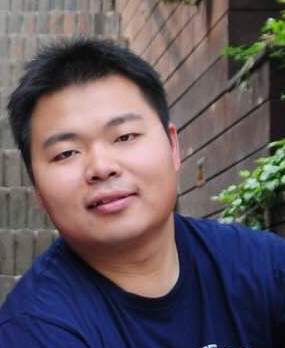
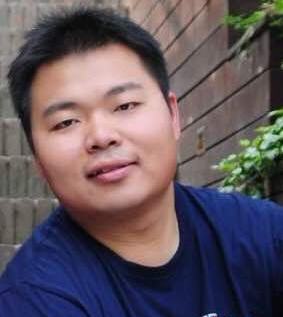
checkpoint

diff --git a/index.html b/index.html
@@ -18,12 +18,12 @@
 <div class="container">
       <div class="content">
         <div class="contentinner">
-  <!--div style="position:relative;height:auto;">
+  <div style="position:relative;height:auto;">
   <div id="self-photo">
     <p style="text-align: center;">
       <img src="img/jian.png" alt="Jian Xiang"></p>
   </div>
-  <div id="index-header" style="margin-left: 13em;">
+  <div id="index-header" style="margin-left: 15em;">
       <h1>Jian Xiang (jee·en shaang)</h1>
       <div class="contactinfo">
         <p>Research Associate,
@@ -65,7 +65,7 @@
 
 <br />
 <br />
-</div-->
+</div>
 
 
 
@@ -73,20 +73,19 @@
   <hr style="height: 2px; width: 100%;">
   <table style="text-align: left; margin-left: auto; margin-right: auto;" border="0" cellpadding="5px" cellspacing="5px">
     <tbody><tr align="center">
-        <td width="10%">
-		  <a href="./index.html">Home</a>
+    <td width="20%">
+         <a href="./index.html">Home</a>
 		</td>
-    	        <td width="10%">
+    <td width="20%">
 		  <a href="./publications.html">Publications</a>
 		</td>
-
-	            <td width="10%">
+    <td width="20%">
 		  <a href="./teaching.html">Teaching</a>
 		</td>
-    	        <td width="10%">
+    <td width="20%">
 		  <a href="./resources.html">Resources</a>
 		</td>
-    	        <td width="10%">
+    <td width="20%">
 		  <a href="./contact.html">Contact</a>
 		</td>
   </tr></tbody></table>
@@ -100,10 +99,7 @@
 
 <p>
 The primary goal of my research is to advance the state of the art of formal methods for correctness and security of computer systems, especially cyber-physical systems (CPSs), and to develop tools and techniques to help construct systems that are correct and secure.
-Formal methods are crucial for security goals, because they can show that no attack strategy will cause a system to misbehave. For the past several years, my research approach is to investigate sound, powerful, and pragmatic formal reasoning techniques for safety and security properties, and develop efficient enforcement mechanisms of these properties in constructing practical systems. <!-- See my <a href="#researchproject">projects</a> for more details. -->
-
-<!--Many complex systems, especially CPSs, are safety and security critical. Systematic, correct, and secure system design and implementation are urgently needed, and I believe that rigorous formal methods are essential for substantial improvements. They enable reasoning from logical or mathematical specifications of the behaviors
-of software systems and offer rigorous proofs that all system behaviors meet some desirable properties. -->
+Formal methods are crucial for security goals, because they can show that no attack strategy will cause a system to misbehave. For the past several years, my research approach is to investigate sound, powerful, and pragmatic formal reasoning techniques for safety and security properties, and develop efficient enforcement mechanisms of these properties in constructing practical systems.
 </p>
 
 
@@ -135,25 +131,6 @@ Co-Inflow: Coarse-grained Information Flow Control for Java-like Languages</span
     </li>
   </ul>
 
-<!--li><span class="pubtitle">
-J. Xiang, N. Fulton, and S. Chong. &ldquo; Extending Dynamic Logics with First-Class Relational Reasoning&rdquo;. (under review).
-</span>
-</li-->
-
-
-
-
-  <!-- h2>
-<span style="font-family:tahoma,geneva,sans-serif;">Projects</span></h2>
-
-<ul>
-	<li><span style="font-size:24px;"><span style="font-family:tahoma,geneva,sans-serif;"><a href="https://github.com/HarvardPL/Co-InflowPrototype">Co-Inflow</a> is a coarse-grained dynamic information-flow control mechanism for Java language. By careful design choices and defaults, a programmer typically needs to add very few annotations to a Java program to convert it to a Co-Inflow program with relatively good precision. Additional annotations can improve precision. We achieve this tradeoff between precision and annotation burden by instantiating and specializing recent advances in coarse-grained IFC for a Java-like setting, and by using opaque labeled values: a restriction of labeled values that the Co-Inflow runtime automatically and securely creates and uses.</span></span></li>
-	<br />
-	<li><span style="font-size:24px;"><span style="font-family:tahoma,geneva,sans-serif;"><a>SecPhy</a> is a framework for modeling and analyzing sensor attacks on cyber-physical systems, using the formalism of hybrid programs. It formalizes and analyzes two relational properties of a system&rsquo;s robustness: (1) whether a system&rsquo;s safety property can be influenced by sensor attacks, and (2) whether a system&rsquo;s high-integrity state can be affected by sensor attacks. These relational properties is characterized by defining an equivalence relation between a system under attack and the original unattacked system. That is, the system satisfies the robustness properties if executions of the attacked system are appropriately related to executions of the unattacked system.</span></span></li>
-	<br />
-	<li><span style="font-size:24px;"><span style="font-family:tahoma,geneva,sans-serif;"><a href="https://github.com/jx5c/Real-World-Type-System/tree/master/RWTChecker">Interpreted formalism</a> is a software analog of the notion of an informal interpretation from classical logic. It targets at improving software dependability by introducing real-world semantics to software systems, and conduct comprehensive type checking based on these semantics.</span></span></li>
-</ul-->
-
 
 <h2 id="researchareas">Research Areas</h2>
 
@@ -173,35 +150,6 @@ J. Xiang, N. Fulton, and S. Chong. &ldquo; Extending Dynamic Logics with First-C
 </p>
 <p> Some useful resources for students can be found <a href="./resources.html">here</a>.
 </p>
-
-
-
-<!--h2 id="researchproject">Research Projects</h2>
-    <ul>
-      <li><b>Application Security</b>:&nbsp;
-	<span class="project">
-	  Develop sound, powerful, and pragmatic programming language primitives to reasong with application security.
-	</span>
-	</li>
-
-	<ul>
-	 <li><a href="./abstracts/XiangC2021.html">Co-Inflow</a></li>
-    </ul>
-
-
-    <li><b>Cyber-Physical System Security</b>:&nbsp;
-	<span class="./project/secphy.html">
-	  Build formal models of systems, and then state and verify security properties within the models.
-	</span>
-	</li>
-
-	<ul>
-	   <li><a href="./abstracts/XiangFC2021.html">SecPhy</a></li>
-	</ul>
-
-    <li><a href="./projects/pastprojects.html">Past Projects</a></li>
-
-   </ul-->
 
 
 <h2>Teaching</h2>

diff --git a/home.html b/home.html
@@ -1,0 +1,116 @@
+<!DOCTYPE html>
+<html>
+<head><meta charset="utf-8">
+	<meta name="viewport" content="width=device-width, initial-scale=1.0">
+	<title>Jian Xiang</title>
+	<link href="./homepage.css" rel="stylesheet" type="text/css" />
+	<link rel="stylesheet" type="text/css" href="./smartphone.css" media="(max-width: 900px)"/>
+	<link href="img/smile.icon.png" rel="shortcut icon" />
+</head>
+<body>
+<div class="container">
+	<div class="content">
+		<div class="contentinner">
+<h1>Resources</h1>
+    <div class="navbar">
+      <hr style="height: 2px; width: 100%;">
+      <table style="text-align: left; margin-left: auto; margin-right: auto;" border="0" cellpadding="0" cellspacing="0">
+	<tbody><tr align="center">
+    	        <td width="10%">
+		  <a href="./index.html">Home</a>
+		</td>
+    	        <td width="10%">
+		  <a href="./publications.html">Publications</a>
+		</td>
+    	        <td width="10%">
+		  <a href="./teaching.html">Teaching</a>
+		</td>
+    	        <td width="10%">
+		  <a href="./resources.html">Resources</a>
+		</td>
+    	        </td>
+    	        <td width="10%">
+		  <a href="./contact.html">Contact</a>
+		</td>
+</tr>
+</tbody>
+</table>
+  <hr style="height: 2px; width: 100%;">
+</div>
+
+
+<p class="quicknote"><b>Quick Note:</b> This page collects links to useful information for students, e.g., writing tips and suggestions on Ph.D. study. <p>
+
+
+    <ul>
+
+    <li><a href="https://amir.rahmati.com/#links">Links collected from Professor Amir Rahmati</a>&nbsp;
+    <ul>
+    	<li><b>Ph.D. Study</b>:&nbsp;
+	<span class="project">
+	<ul>
+    <li><a href="http://matt.might.net/articles/ways-to-fail-a-phd/" target="_blank" rel="noopener">10 easy ways to fail a Ph.D.</a></li>
+    <li><a href="http://www.cs.unc.edu/~azuma/hitch4.html" target="_blank" rel="noopener">So long, and thanks for the Ph.D.!</a></li>
+    <li><a href="http://www.economist.com/node/17723223" target="_blank" rel="noopener">The disposable academic</a></li>
+    <li><a href="https://biomath.usu.edu/files/Peter_J._Feibelman_A_PhD_Is_Not_Enough.pdf" target="_blank" rel="noopener">A Ph.D. is not enough</a></li>
+    <li><a href="http://cacm.acm.org/blogs/blog-cacm/157012-phds-from-the-facultys-perspective/fulltext" target="_blank" rel="noopener">PhDs from the Faculty&rsquo;s Perspective</a></li>
+    </ul>
+	</span>
+	</li>
+
+	<li><b>Writing</b>:&nbsp;
+	<span class="project">
+	<ul>
+    <li><a href="http://www.csee.umbc.edu/~finin/home/heilmeyerCatechism.html" target="_blank" rel="noopener">Heilmeier&rsquo;s Catechism</a> - On writing proposals</li>
+    <li><a href="http://www.mhhe.com/mayfieldpub/tsw/home.htm" target="_blank" rel="noopener">The Mayfield Handbook of Technical &amp; Scientific Writing</a></li>
+    <li><a href="http://john.regehr.org/reading_list/levin_sosp.html" target="_blank" rel="noopener">How (and How Not) to Write a Good Systems Paper</a></li>
+    <li><a href="http://www.read.seas.harvard.edu/~kohler/latex.html" target="_blank" rel="noopener">LaTeX Usage Notes</a></li>
+    <li><a href="https://withoutbullshit.com/blog/10-top-writing-tips-psychology" target="_blank" rel="noopener">10 top writing tips and the psychology behind them</a></li>
+    <li><a href="https://www.youtube.com/watch?v=SYk29tnxASs" target="_blank" rel="noopener">How to Create a Better Research Poster</a></li>
+    </ul>
+	</span>
+	</li>
+
+	</ul>
+
+    </li>
+
+	<li><a href="https://shomir.net/advice_for_students.html">Advices for students from Professor Shomir Wilson </a>&nbsp;
+	<ul>
+	<li><b>General Advice</b>:&nbsp;
+	<span class="project">
+	<ul>
+	<li><a href="https://shomir.net/teaching_faq.html">Guide for Interacting With Faculty</a>: for students (especially first-year undergraduates and international students) who want to learn about expectations that university faculty have for them. </li>
+	</li>
+    </ul>
+	<li><b>Writing</b>:&nbsp;
+	<span class="project">
+	<ul>
+	<li><a href="https://shomir.net/scholarly_writing.html">Guide for Scholarly Writing</a>: for students who are writing manuscripts for assignments or for publication. </li>
+	<li><a href="https://shomir.net/citations_and_references.html">Guide for Citations and References</a>: for students who are new to using citations and references. </li>
+	<li><a href="https://shomir.net/scholarly_publishing.html">Guide for Research Conferences</a>: for students who want to share their work with the research community. </li>
+	</ul>
+	</li>
+	</ul>
+
+    </li>
+
+	<!-- more to be added -->
+
+
+
+    <li> More writing tips
+      <ul>
+	<li> <a href="http://www.cs.columbia.edu/~hgs/etc/writing-bugs.html">Common Bugs in Writing</a> </li>
+      </ul>
+
+    </li>
+
+
+
+    </ul>
+</div>
+</div>
+</div>
+</body>
+</html>

diff --git a/homepage.css b/homepage.css
@@ -4,6 +4,7 @@ body {
     background-color: rgb(90,0,0);
     color: rgb(0,0,0);
     background-color: rgb(253,253,247);
+    font-size: 130%;
     text-align: center;
 }
 
@@ -343,7 +344,7 @@ img.logo {
 }
 
 #self-photo {
-    float:right;
+    float:left;
     margin: 0px;
     padding: 0px;
 }
